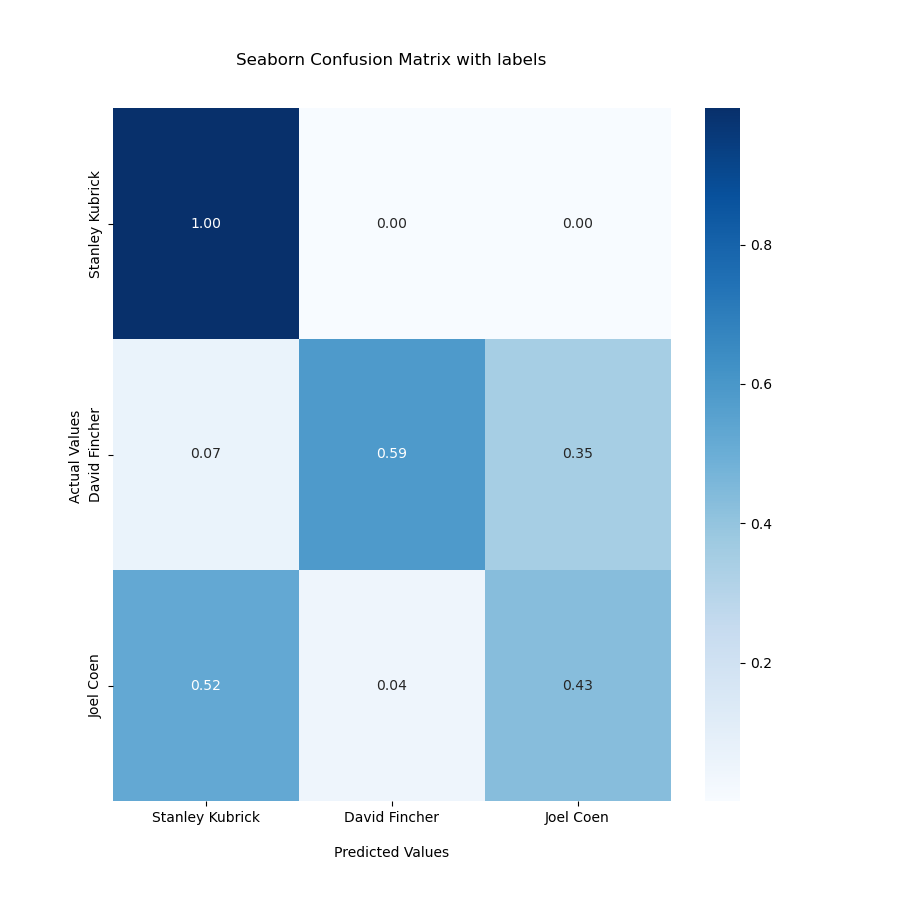
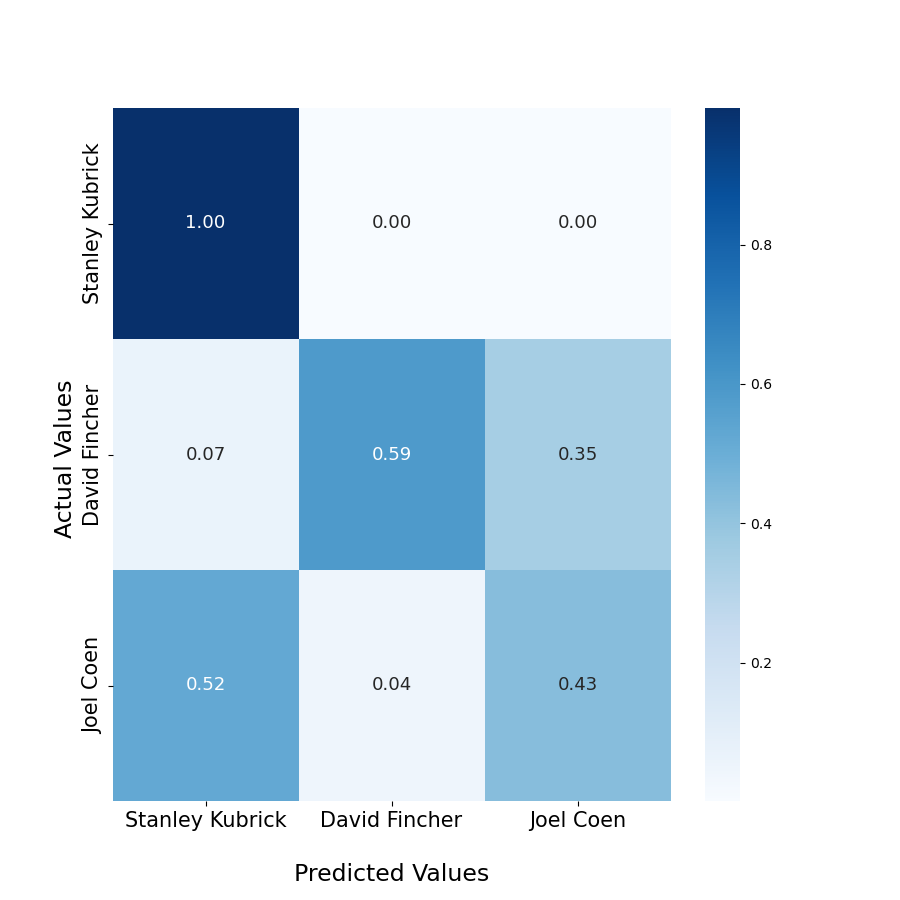
update confusion matrix

diff --git a/cmd3_video/conf_matrix.py b/cmd3_video/conf_matrix.py
@@ -1,0 +1,16 @@
+from utils.metrics import save_conf_matrix
+import os
+
+save_conf_matrix(os.path.join('results/video/last_layer', "conf_matrix.csv"), os.path.join('results/video/last_layer', "conf_matrix_img.png"))
+save_conf_matrix(os.path.join('results/video/all_layer', "conf_matrix.csv"), os.path.join('results/video/all_layer', "conf_matrix_img.png"))
+save_conf_matrix(os.path.join('results/audio/last_layer', "conf_matrix.csv"), os.path.join('results/audio/last_layer', "conf_matrix_img.png"))
+save_conf_matrix(os.path.join('results/audio/all_layer', "conf_matrix.csv"), os.path.join('results/audio/all_layer', "conf_matrix_img.png"))
+save_conf_matrix(os.path.join('results/video/last_layer', "conf_matrix.csv"), os.path.join('results/video/last_layer', "conf_matrix_img.png"))
+save_conf_matrix(os.path.join('results/video/last_layer', "conf_matrix.csv"), os.path.join('results/video/last_layer', "conf_matrix_img.png"))
+save_conf_matrix(os.path.join('results/multimodal/feature_fusion', "conf_matrix.csv"), os.path.join('results/multimodal/feature_fusion', "conf_matrix_img.png"))
+save_conf_matrix(os.path.join('results/multimodal/feature_fusion_norm', "conf_matrix.csv"), os.path.join('results/multimodal/feature_fusion_norm', "conf_matrix_img.png"))
+save_conf_matrix(os.path.join('results/multimodal/pred_fusion_0.1', "conf_matrix.csv"), os.path.join('results/multimodal/pred_fusion_0.1', "conf_matrix_img.png"))
+save_conf_matrix(os.path.join('results/multimodal/pred_fusion_0.3', "conf_matrix.csv"), os.path.join('results/multimodal/pred_fusion_0.3', "conf_matrix_img.png"))
+save_conf_matrix(os.path.join('results/multimodal/pred_fusion_0.5', "conf_matrix.csv"), os.path.join('results/multimodal/pred_fusion_0.5', "conf_matrix_img.png"))
+save_conf_matrix(os.path.join('results/multimodal/pred_fusion_0.7', "conf_matrix.csv"), os.path.join('results/multimodal/pred_fusion_0.7', "conf_matrix_img.png"))
+save_conf_matrix(os.path.join('results/multimodal/pred_fusion_0.9', "conf_matrix.csv"), os.path.join('results/multimodal/pred_fusion_0.9', "conf_matrix_img.png"))

diff --git a/cmd3_video/utils/metrics.py b/cmd3_video/utils/metrics.py
@@ -1,3 +1,4 @@
+from matplotlib import font_manager
 import numpy as np
 import torch
 import torchmetrics.functional as F
@@ -26,15 +27,15 @@ def save_conf_matrix(conf_path, save_path):
     
 
     plt.figure(figsize = (9,9))
-    ax = sns.heatmap(cf_matrix, annot=True, cmap='Blues', fmt='.2f')
+    ax = sns.heatmap(cf_matrix, annot=True, cmap='Blues', fmt='.2f', annot_kws={"size": 13})
 
-    ax.set_title('Seaborn Confusion Matrix with labels\n\n')
-    ax.set_xlabel('\nPredicted Values')
-    ax.set_ylabel('Actual Values ')
+    # ax.set_title('Seaborn Confusion Matrix with labels\n\n')
+    ax.set_xlabel('\nPredicted Values', size=17)
+    ax.set_ylabel('Actual Values ', size=17)
 
     ## Ticket labels - List must be in alphabetical order
-    ax.xaxis.set_ticklabels(['Stanley Kubrick','David Fincher', 'Joel Coen'])
-    ax.yaxis.set_ticklabels(['Stanley Kubrick','David Fincher', 'Joel Coen'])
+    ax.xaxis.set_ticklabels(['Stanley Kubrick','David Fincher', 'Joel Coen'], size=15)
+    ax.yaxis.set_ticklabels(['Stanley Kubrick','David Fincher', 'Joel Coen'], size=15)
 
 
     ## Display the visualization of the Confusion Matrix.
